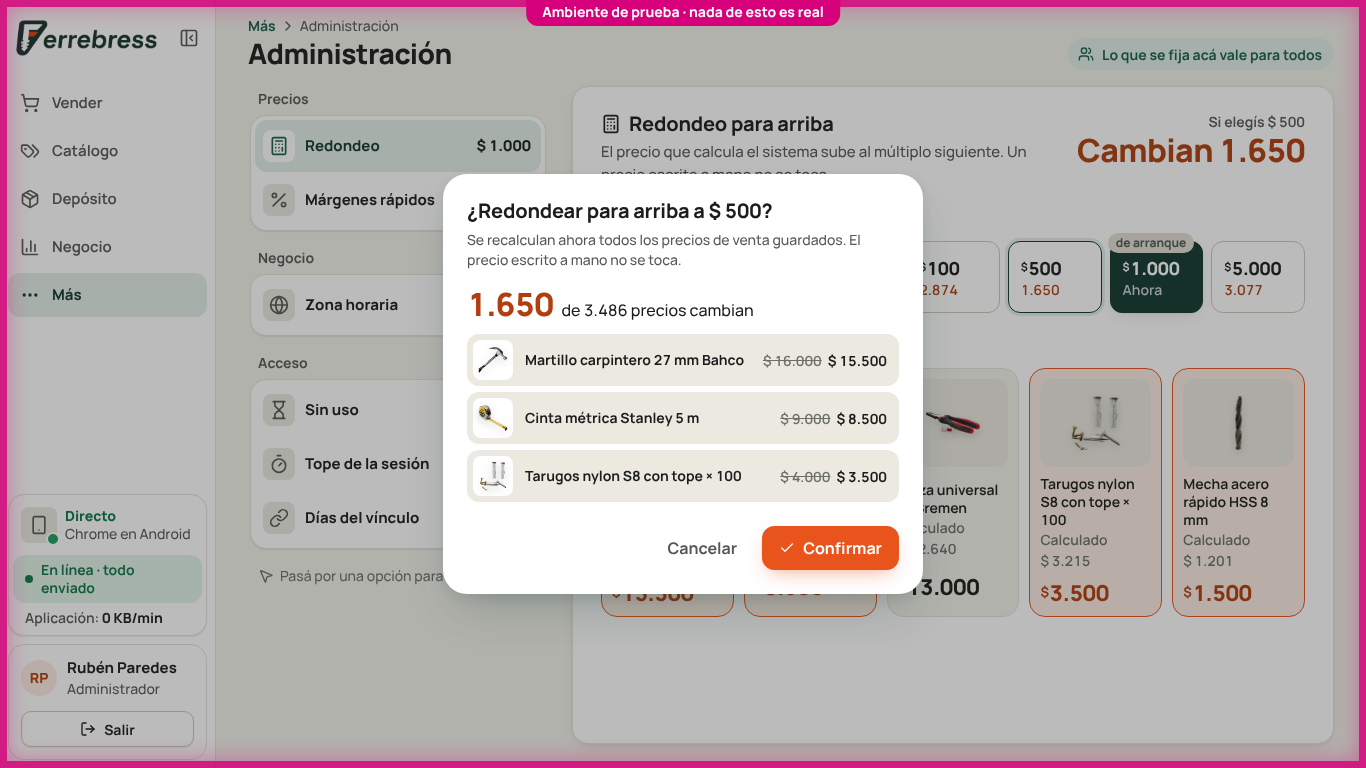
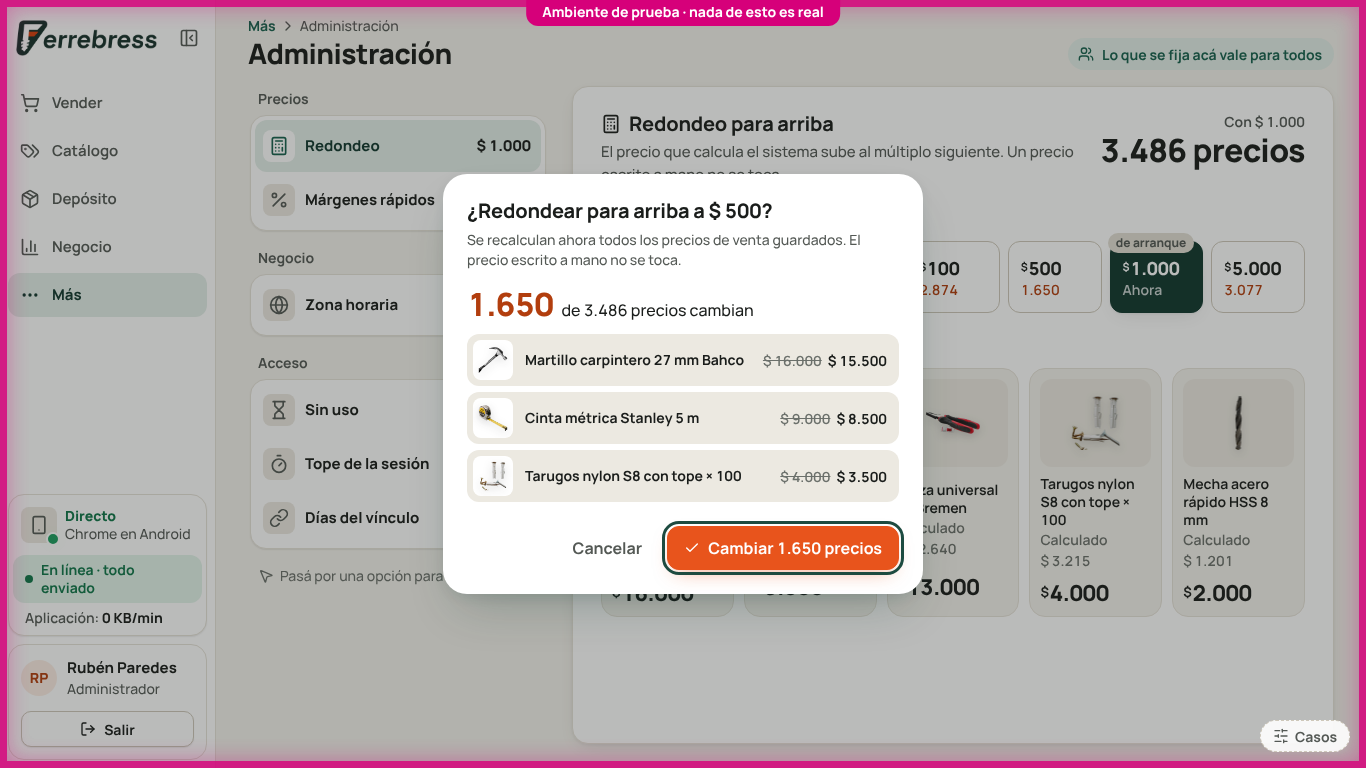
06a: Carlos aprobó la maqueta final de Administración; empieza el paso 3
Con sus dos respuestas: las opciones de un ajuste se recorren con ← →
después de la tecla del ajuste, sin una tecla por opción (R1.8), y el
botón que confirma el redondeo dice «Cambiar N precios» (R3.4, E18).

Claude-Session: https://claude.ai/code/session_01BmbhiYJAfQvWshUgYzn7JL

diff --git a/docs/design/mockups/administration-settings/final/settings.js b/docs/design/mockups/administration-settings/final/settings.js
@@ -285,7 +285,7 @@
       '<div class="cuantos"><span class="t-numero">' + AS.miles(n) + '</span><span class="t-cuerpo">de ' + AS.miles(AS.TOTAL_PRECIOS) + " precios cambian</span></div>" +
       AS.ejemplosHtml(paso, 3) +
       '<div class="barra-espera" role="status" hidden><div class="barra-dice"><span data-barra-que>Recalculando ' + AS.miles(n) + ' precios…</span><span data-barra-cuanto></span></div><div class="avance"><b></b></div></div>' +
-      '<div class="pie-dialogo"><button type="button" class="btn btn-fantasma" data-cerrar data-tecla="c">Cancelar<span class="kbd">C</span></button><button type="button" class="btn btn-accion" data-confirma data-tecla="o"><i class="i i-s sin-espera" data-i="check"></i><i class="i i-s espera-ico" data-i="loader-circle"></i>Confirmar<span class="kbd">O</span></button></div>',
+      '<div class="pie-dialogo"><button type="button" class="btn btn-fantasma" data-cerrar data-tecla="c">Cancelar<span class="kbd">C</span></button><button type="button" class="btn btn-accion" data-confirma data-tecla="p"><i class="i i-s sin-espera" data-i="check"></i><i class="i i-s espera-ico" data-i="loader-circle"></i>Cambiar ' + AS.miles(n) + ' precios<span class="kbd">P</span></button></div>',
       function (capa) { recalcular(capa, paso, n, alTerminar); });
     return c;
   };

diff --git a/docs/project/roadmap.md b/docs/project/roadmap.md
@@ -27,7 +27,7 @@ El mismo nombre se usa en el capítulo (`docs/chapters/NN-<module>/`), en el dis
 | 03 | `device-link` | En dos etapas. **a. Vínculo y espejo:** vincular el celular y la computadora, la conexión entre los dos (directa por el Wi-Fi, con el servidor de respaldo), el indicador del vínculo, el espejo, desconectar, reconectar y desvincular, cuánto dura y qué lo termina. El vínculo dura 30 días fijos hasta que exista 06, que lo vuelve un ajuste. El mecanismo de conexión es reutilizable: lo usa cualquier funcionalidad futura que reciba datos del servidor sin pedirlos, con el menor consumo de datos posible. **b. Lector de códigos y fotos:** la cámara del celular lee códigos para la computadora y saca fotos que ella pide; la foto de la factura de compra se suma con 11 | La a, para tener el mecanismo de conexión antes de los módulos que lo usan; la b, con el catálogo, que es donde caen los códigos y las fotos | a: 01, 02b; b: 03a, 07 | a: hecha: Carlos la probó y la aprobó, con su manual en el capítulo «Celular y computadora»; b: libre |
 | 04 | `device-settings` | En dos etapas, en la misma pantalla (Más → Configuración). **a. Preferencias del dispositivo:** animaciones, formato de la hora, «Instalar en este dispositivo» y «Trabajar sin conexión», que se muda acá desde Más. **b. Lo mío:** mis celulares con huella (verlos, quitar uno y vincular el que se tiene en la mano), mis sesiones en otros dispositivos, cortar mi propio celular perdido y el nombre del dispositivo. El vínculo entre celular y computadora no está acá: va solo en su indicador (03). Los importes con decimales van con el catálogo (07) | Prioridad de Carlos; la usan los módulos siguientes | a: 01, 15a; b: 04a, 02b | a: hecha: Carlos la probó y anda, con su manual en el capítulo «Configuración»; b: hecha: Carlos la probó y anda, con su manual en el capítulo «Configuración» |
 | 05 | `audit-log` | La auditoría (lo que hacen las personas): guardarla, con el dato afectado de cada acción, y consultarla en Más → Usuarios → Auditoría. La historia de un dato se muestra con el catálogo (T115) y cuánto se guarda se decide con las copias (T116) | Va antes del catálogo porque lo usan los que siguen: la historia de precios y de stock se lee de acá, y Carlos ve en la auditoría lo que hace cada módulo mientras lo prueba | 01 | Hecho: Carlos lo probó y lo aprobó, con su manual |
-| 06 | `administration` | En dos etapas, en Más → Administración. **a. Ajustes para todos:** lo que fija un Administrador y cumplen todos los dispositivos (redondeo, márgenes rápidos, zona horaria, días del vínculo, los tiempos de la sesión). **b. Anomalías:** la pantalla de anomalías, a la que cada módulo le suma las suyas | La a, antes del catálogo, que necesita el redondeo y los márgenes: mejor editarlos de entrada que dejar valores fijos; la b, con el stock, el primer módulo que suma anomalías | a: 02b, 05; b: 06a | a: En curso: paso 2; b: libre |
+| 06 | `administration` | En dos etapas, en Más → Administración. **a. Ajustes para todos:** lo que fija un Administrador y cumplen todos los dispositivos (redondeo, márgenes rápidos, zona horaria, días del vínculo, los tiempos de la sesión). **b. Anomalías:** la pantalla de anomalías, a la que cada módulo le suma las suyas | La a, antes del catálogo, que necesita el redondeo y los márgenes: mejor editarlos de entrada que dejar valores fijos; la b, con el stock, el primer módulo que suma anomalías | a: 02b, 05; b: 06a | a: En curso: paso 3; b: libre |
 | 07 | `catalog` | Productos, proveedores, costo, margen, precio, búsqueda, código de barras, foto y duplicados; la preferencia de ver los importes con decimales, en Configuración | La base de vender | 06a | Libre |
 | 08 | `price-lists` | Subir la lista de un proveedor, ver qué cambia y aplicarla; un lector por proveedor | Todo producto sale de una lista | 07 | Libre |
 | 09 | `stock` | Cuánto hay de cada producto, correcciones a mano y las anomalías de stock | Vender lo descuenta | 07, 06b | Libre |

diff --git a/docs/design/mockups/administration-settings/final/changes.md b/docs/design/mockups/administration-settings/final/changes.md
@@ -52,21 +52,19 @@ en la dirección no aparece.
   - Tocar el indicador muestra una tostada: su detalle está en la maqueta del vínculo.
 - **Las teclas, solo con Alt apretado** (00 · R2.9): la variante mostraba siempre «Ctrl Z» en
   «Deshacer».
-- **Un atajo con Alt para cada botón** (00 · R2.8, R2.10). Las teclas de los ajustes ya estaban
+- **Un atajo con Alt para cada botón** (00 · R2.8, R2.10; 06 · R1.8). Las teclas de los ajustes ya estaban
   (R, M, Z, S, T, V). Se suman:
   - «Deshacer»: D. Ctrl Z sigue deshaciendo fuera de una caja de texto; adentro, es el de editar
     texto (R2.11).
-  - En la confirmación del redondeo, «Cancelar» C y «Confirmar» O (en lugar de las teclas «Esc» y
-    «Enter» que mostraba). Esc y Enter siguen andando.
+  - En la confirmación del redondeo, «Cancelar» C y «Cambiar N precios» P (en lugar de las teclas
+    «Esc» y «Enter» que mostraba). Esc y Enter siguen andando.
   - Cuando el recálculo falla, «Ahora no» A y «Reintentar» R.
   - Sin conexión, «Reintentar» R.
   - El indicador del vínculo, L, como en las otras finales.
-- **«Confirmar» en la confirmación del redondeo** (E18): el botón decía «Cambiar 1.650 precios».
-  El número sigue en grande arriba de los ejemplos.
 - **La espera del recálculo** (00 · R7.1 a R7.3). En la variante, la barra aparecía al confirmar y
   terminaba en 1,25 s. Ahora:
-  - al confirmar, «Confirmar» y «Cancelar» se traban, y Esc y tocar afuera no cierran;
-  - a los 300 ms, «Confirmar» muestra la marca de espera (el círculo que gira);
+  - al confirmar, «Cambiar N precios» y «Cancelar» se traban, y Esc y tocar afuera no cierran;
+  - a los 300 ms, «Cambiar N precios» muestra la marca de espera (el círculo que gira);
   - a los 2 s aparece la barra, que dice qué hace y cuánto lleva: «Recalculando 1.650 precios…
     1.263 de 1.650»;
   - al terminar dice «Listo» un instante, en verde, y recién ahí se cierra con la tostada.

diff --git a/docs/chapters/06-administration/rules.md b/docs/chapters/06-administration/rules.md
@@ -41,6 +41,9 @@ anomalías.
 - **R1.7** **Con el celular y la computadora vinculados,** ir a Administración se espeja como
   cualquier pantalla (03 · R6). Un cambio hecho en uno se ve en los dos, porque es el mismo valor
   para todos.
+- **R1.8** **Las opciones de un ajuste no llevan atajo propio:** con el teclado se llega al ajuste
+  con su atajo (00 · R2.8) y se recorren sus opciones con ← y →. Una tecla por opción llenaría la
+  pantalla de letras sin ahorrar nada.
 
 ## 2. Cómo se guarda un ajuste
 
@@ -68,7 +71,7 @@ anomalías.
 - **R3.3** **Dónde se aplica lo dice cada capítulo que calcula un precio** (el catálogo, la venta).
   El precio que alguien escribe a mano no se redondea.
 - **R3.4** **Cambiar el paso recalcula en ese momento todos los precios de venta guardados.** Antes
-  de guardar, se ve cuántos precios cambian («Cambian 3.412 precios») y se confirma o se cancela: es
+  de guardar, se ve cuántos precios cambian y se confirma con «Cambiar 3.412 precios» o se cancela: es
   la única confirmación de la pantalla, porque cambia de golpe todos los precios del negocio. Si no
   cambia ningún precio, se guarda sin preguntar. Este ajuste no lleva «Deshacer»: para volver se
   elige el paso anterior, que muestra de nuevo cuántos cambian.
@@ -163,7 +166,7 @@ anomalías.
 - **E17** **Dado** «sin redondeo», **cuando** el sistema calcula un precio de $ 1.201, **entonces**
   queda en $ 1.201.
 - **E18** **Dado** precios guardados, **cuando** se elige otro paso, **entonces** antes de guardar se
-  ve cuántos precios cambian, con «Confirmar» y «Cancelar».
+  ve cuántos precios cambian, con «Cambiar <cuántos> precios» y «Cancelar».
 - **E19** **Dado** E18, **cuando** se confirma, **entonces** todos los precios de venta guardados
   quedan redondeados con el paso nuevo, y en Quién hizo qué queda el cambio con cuántos precios
   cambiaron.

diff --git a/docs/chapters/README.md b/docs/chapters/README.md
@@ -21,7 +21,7 @@ se dejó y qué propone mejorar (constitución, paso 1).
 | 03 · Celular y computadora ([`03-device-link`](03-device-link/summary.md)) | Vincular, espejo, lector de códigos, fotos, en dos etapas: a. vínculo y espejo; b. lector de códigos y fotos | Etapa a: reglas y pantallas aprobadas; diseño técnico; etapa b: por escribir |
 | 04 · Configuración del dispositivo ([`04-device-settings`](04-device-settings/summary.md)) | Lo que cada persona elige para sí misma, en dos etapas: a. preferencias del dispositivo; b. lo mío | Etapa a: Carlos la probó y anda, con su manual; etapa b: por escribir |
 | 05 · Quién hizo qué ([`05-audit-log`](05-audit-log/summary.md)) | El registro de cada acción y cómo se consulta, en Más → Usuarios | Programado; paso 7: las revisiones del código |
-| 06 · Administración ([`06-administration`](06-administration/summary.md)) | Lo que un Administrador fija para todos, en dos etapas: a. ajustes para todos; b. anomalías | Etapa a: reglas aprobadas; etapa b: por escribir |
+| 06 · Administración ([`06-administration`](06-administration/summary.md)) | Lo que un Administrador fija para todos, en dos etapas: a. ajustes para todos; b. anomalías | Etapa a: reglas y pantalla aprobadas; etapa b: por escribir |
 | 07 · Catálogo (`07-catalog`) | Productos, proveedores, costo, margen, precio, búsqueda, duplicados | Por escribir |
 | 08 · Listas de precios (`08-price-lists`) | Subir, revisar y aplicar la lista de un proveedor | Por escribir |
 | 09 · Stock (`09-stock`) | Cuánto hay, correcciones y anomalías de stock | Por escribir |

diff --git a/docs/chapters/06-administration/summary.md b/docs/chapters/06-administration/summary.md
@@ -10,14 +10,15 @@ dos etapas: a. ajustes para todos; b. anomalías, que se escribe con el stock. R
 
 - **La pantalla:** en el celular y en la computadora; la ve cualquiera con sesión, y la cambia solo
   quien tiene «Cambiar los ajustes», el único permiso, que tiene el rol Administrador; agrupada en
-  precios, negocio y acceso; cada capítulo suma acá sus ajustes para todos; sin conexión, gris (R1).
+  precios, negocio y acceso; cada capítulo suma acá sus ajustes para todos; sin conexión, gris; con el teclado, la tecla del
+  ajuste y ← → para sus opciones (R1).
 - **Guardar:** al cambiarlo, con «Deshacer» 5 segundos y sin confirmación (salvo el redondeo); si dos
   cambian lo mismo a la vez, el segundo ve el valor nuevo y decide de nuevo; los dispositivos lo
   reciben con su próximo pedido, sin aviso en vivo; cada cambio, con el valor anterior y el nuevo, a
   Quién hizo qué (R2).
 - **El redondeo:** siempre para arriba al múltiplo del paso (sin redondeo, $ 10, $ 50, $ 100, $ 500,
   $ 1.000 de arranque, o $ 5.000); el precio a mano no se redondea; cambiarlo recalcula en ese
-  momento todos los precios, después de ver cuántos cambian y confirmar; todo o nada (R3).
+  momento todos los precios, después de ver cuántos cambian y confirmar con «Cambiar N precios»; todo o nada (R3).
 - **Los márgenes rápidos:** siempre cinco, enteros de 1 a 10.000 %, sin repetirse, ordenados de mayor
   a menor para las teclas 1 a 5; de arranque 300, 200, 100, 50 y 25; cambiarlos no toca ningún
   producto (R4).

diff --git a/docs/chapters/06-administration/screens.md b/docs/chapters/06-administration/screens.md
@@ -2,4 +2,4 @@
 
 | # | Pantalla | Qué se tiene que poder hacer | Maqueta |
 |---|---|---|---|
-| 1 | Más → Administración (celular y computadora) | Ver los ajustes para todos y, con «Cambiar los ajustes», cambiar el redondeo, los márgenes rápidos, los tiempos de la sesión y los días del vínculo; ver la zona horaria del negocio | Elegida: la variante 2 · Probar antes de elegir de [`mockups/administration-settings/`](../../design/mockups/administration-settings/), en la computadora y en el celular. Para aprobar: [`mockups/administration-settings/final/`](../../design/mockups/administration-settings/final/) |
+| 1 | Más → Administración (celular y computadora) | Ver los ajustes para todos y, con «Cambiar los ajustes», cambiar el redondeo, los márgenes rápidos, los tiempos de la sesión y los días del vínculo; ver la zona horaria del negocio | Elegida: la variante 2 · Probar antes de elegir de [`mockups/administration-settings/`](../../design/mockups/administration-settings/), en la computadora y en el celular. **Aprobada**: [`mockups/administration-settings/final/`](../../design/mockups/administration-settings/final/) |
